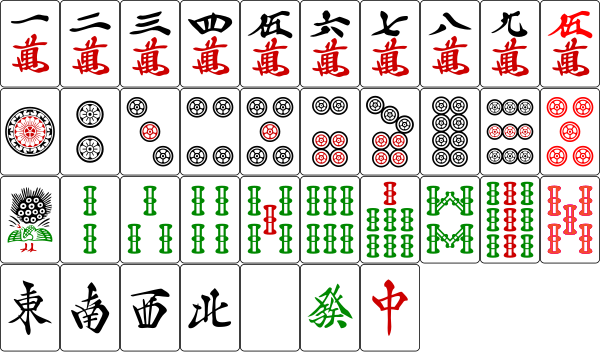
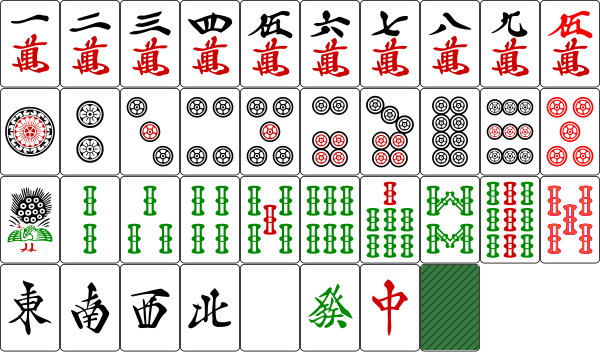
created ability to generate tile call images

Changed region(s): [[0.69, 0.75, 0.81, 1.0]]

diff --git a/createGameStatePicture.py b/createGameStatePicture.py
@@ -11,7 +11,7 @@ tile_height = ysize // 4
 tile_names = ['1m','2m','3m','4m','5m','6m','7m','8m','9m','0m',
               '1p','2p','3p','4p','5p','6p','7p','8p','9p','0p',
               '1s','2s','3s','4s','5s','6s','7s','8s','9s','0s',
-              '1z','2z','3z','4z','5z','6z','7z']
+              '1z','2z','3z','4z','5z','6z','7z','ct']
 
 tileDict = {}
 for index, name in enumerate(tile_names):
@@ -24,6 +24,42 @@ def convertToBase64(image):
     bgBase64Data = outputBuffer.getvalue()
     
     return base64.b64encode(bgBase64Data).decode()
+
+def createTileCalls(tileCalls):
+    callImage = Image.new("RGBA", (len(tileCalls) * tile_width * 4 + (tile_height - tile_width), tile_height * 2), (0, 0, 0, 0))
+
+    leftSide = 0
+    for call in tileCalls:
+        index = 0
+        while index < len(call):
+            if call[index] in ["a", "c", "k", "p"]:
+                if call[index] == "a":
+                    tile = tileDict[call[index+1:index+3]]
+                    rotatedTile = tile.rotate(270,expand=True)
+                    addedKan = Image.new("RGBA", (tile_height, tile_width * 2), (0, 0, 0, 0))
+                    addedKan.paste(rotatedTile, (0, 0, tile_height, tile_width))
+                    addedKan.paste(rotatedTile, (0, tile_width, tile_height, tile_width * 2))
+                    callImage.paste(addedKan, (leftSide, (tile_height - tile_width)*2, leftSide + tile_height, tile_height * 2))
+                    index = index + 5
+                    leftSide = leftSide + tile_height
+                elif call[index] in ["c", "k", "p"] and not index == 6:
+                    print("pons")
+                    tile = tileDict[call[index+1:index+3]]
+                    rotatedTile = tile.rotate(270,expand=True)
+                    callImage.paste(rotatedTile, (leftSide, 2 * tile_height - tile_width, leftSide + tile_height, tile_height * 2))
+                    index = index + 3
+                    leftSide = leftSide + tile_height
+                elif call[index] == "k" and index == 6:
+                    callImage.paste(tileDict["ct"], (leftSide, tile_height, leftSide + tile_width, tile_height * 2))
+                    callImage.paste(tileDict["ct"], (0, tile_height, tile_width, tile_height * 2))
+                    index = index + 3
+                    leftSide = leftSide + tile_width
+            else:
+                callImage.paste(tileDict[call[index:index+2]], (leftSide, tile_height, leftSide + tile_width, tile_height * 2))
+                index = index + 2
+                leftSide = leftSide + tile_width
+
+    return callImage
 
 def createTileGroup(tiles, rowSize):
     numOfRows = -(len(tiles) // -rowSize)
@@ -55,9 +91,11 @@ filePath = 'akochans/akochan-1.json' #testing line
 gameFile = open(filePath)
 game = json.load(gameFile)
 
-southDiscardsImage = createTileGroup(game["eastDiscards"], 5)
+eastDiscardsImage = createTileGroup(game["eastDiscards"], 6)
+southCallsImage = createTileCalls(game["southCalls"])
+print(game["southCalls"])
     
-base64image = convertToBase64(southDiscardsImage)
+base64image = convertToBase64(southCallsImage)
 
 print(base64image)
 sys.stdout.flush()
